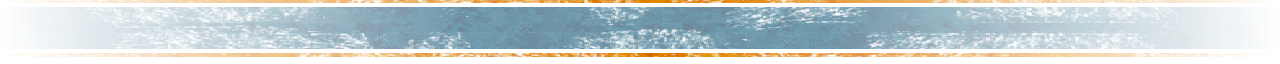
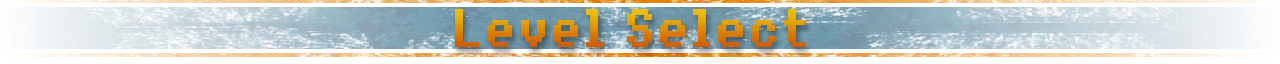
Fixes for headings in menu and leaderboard page
Some changes

Changed region(s): [[0.3438, 0.125, 0.6562, 0.8438]]

diff --git a/game/Developers.java b/game/Developers.java
@@ -3,7 +3,7 @@ import greenfoot.*;
 /**
  * This world will contain names of all developers that created the game
  * 
- * @author Brent Gammon
+ * @author Brent Gammon, Mati Saidzai
  * @version S3 3/4/16
  */
 public class Developers extends ExtendedWorld
@@ -20,13 +20,18 @@ public class Developers extends ExtendedWorld
         layer1 = new GreenfootImage("images/Graphics/MainMenuelements/Menu_BG.png");
         setBackground("images/Graphics/MainMenuelements/Menu_BG.png");
 
-        addObject(new CreditTextDisplay("Developers",60),420,49);
-        addObject(new Home(),65,50);
+        addObject(new DeveloperBanner(),427,40);
+        addObject(new Brent(),420,150);
+        addObject(new Mitch(),420,200 );
+        addObject(new Viktor(),420,250 );
+        addObject(new Sharaz(),420,300 );
+        addObject(new Mati(),420,350);
+        addObject(new Home(),47,115);
         
-        addObject(new CreditTextDisplay("Brent Gammon",50),420,150);
-        addObject(new CreditTextDisplay("Mitchell Rebuck-Watson",50),420,250);
-        addObject(new CreditTextDisplay("Viktor Kovachev",50),420,350);
-        addObject(new CreditTextDisplay("Shahraz Khan",50),420,450);
-        addObject(new CreditTextDisplay("Mati Saidzai",50),420,550);
+        //addObject(new CreditTextDisplay("Brent Gammon",50),420,150);
+        //addObject(new CreditTextDisplay("Mitchell Rebuck-Watson",50),420,250);
+        //addObject(new CreditTextDisplay("Viktor Kovachev",50),420,350);
+        //addObject(new CreditTextDisplay("Sharaz Khan",50),420,450);
+        //addObject(new CreditTextDisplay("Mati Saidzai",50),420,550);
     }
 }

diff --git a/game/MenuSettings.java b/game/MenuSettings.java
@@ -5,7 +5,7 @@ import java.awt.Color;
 /**
  * This world will contain settings for the game, this will be repsented by different objects within the world
  * 
- * @author Brent Gammon
+ * @author Brent Gammon, Mati Saidzai 
  * @version v0.1
  */
 public class MenuSettings extends ExtendedWorld
@@ -26,13 +26,13 @@ public class MenuSettings extends ExtendedWorld
         addObject(new UPControl(),418,331);
         addObject(new LeftControl(),322,403);
         addObject(new RightControl(),511,403);
-        addObject(new Home(),47,105);
+        addObject(new Home(),47,115);
         addObject(new AttackControl(),322,511);
         addObject(new BombControl(),511,511);
-        addObject(new SettingBelowHeading(),415,243);
-        addObject(new SettingBinding(),420,182);
-        addObject(new SettingBelowHeading(),415,243);
-        addObject(new SettingsTitle(),414,97);
-        addObject(new SettingsBanner(),377,33);
+
+        addObject(new SettingBinding(),420,155);
+        addObject(new SettingBelowHeading(),415,210);
+        //addObject(new SettingsTitle(),414,97);
+        addObject(new SettingsBanner(),410,40);
     }
 }

diff --git a/game/LevelSelectMenu.java b/game/LevelSelectMenu.java
@@ -21,9 +21,9 @@ public class LevelSelectMenu extends ExtendedWorld
         super(GAME_HEIGHT,GAME_WIDTH,false); 
       
         layer1 = new GreenfootImage("images/Graphics/MainMenuelements/Menu_BG.png");
-        addObject(new Home(),40,87);
-        addObject(new LevelSelectBanner(),486,33);
-        addObject(new LevelSelectTitle(),412,98);
+        addObject(new Home(),40,115);
+        addObject(new LevelSelectBanner(),427,40);
+        //addObject(new LevelSelectTitle(),412,98);
         
         int view;
         if(levels==null){

diff --git a/game/DeveloperBanner.java b/game/DeveloperBanner.java
@@ -1,0 +1,20 @@
+import greenfoot.*;
+
+/**
+ * Used in the developer screen as title screen.
+ * 
+ * @author Mati Saidzai
+ * @version v0.1
+ */
+public class DeveloperBanner extends MenuItems
+{
+    /**
+     * Contructor for Developer Banner
+     * When invoked will set the image for the instance
+     */
+    public DeveloperBanner(){
+        GreenfootImage start = new GreenfootImage("images/developerbanner.png");
+        setImage(start);
+    }   
+}
+

diff --git a/game/Sharaz.java b/game/Sharaz.java
@@ -1,0 +1,19 @@
+import greenfoot.*;
+
+/**
+ * Name images for developer page.
+ * 
+ * @author Mati Saidzai
+ * @version v0.1
+ */
+public class Sharaz extends MenuItems
+{
+    /**
+     * Contructor for Name,
+     * When invoked will set the image for the instance
+     */
+    public Sharaz(){
+        GreenfootImage start = new GreenfootImage("images/Names/Sharaz.png");
+        setImage(start);
+    }   
+}

diff --git a/game/Viktor.java b/game/Viktor.java
@@ -1,0 +1,19 @@
+import greenfoot.*;
+
+/**
+ * Name images for developer page.
+ * 
+ * @author Mati Saidzai
+ * @version v0.1
+ */
+public class Viktor extends MenuItems
+{
+    /**
+     * Contructor for Name,
+     * When invoked will set the image for the instance
+     */
+    public Viktor(){
+        GreenfootImage start = new GreenfootImage("images/Names/Viktor.png");
+        setImage(start);
+    }   
+}

diff --git a/game/Brent.java b/game/Brent.java
@@ -1,0 +1,19 @@
+import greenfoot.*;
+
+/**
+ * Name images for developer page.
+ * 
+ * @author Mati Saidzai
+ * @version v0.1
+ */
+public class Brent extends MenuItems
+{
+    /**
+     * Contructor for Name,
+     * When invoked will set the image for the instance
+     */
+    public Brent(){
+        GreenfootImage start = new GreenfootImage("images/Names/Brent.png");
+        setImage(start);
+    }   
+}

diff --git a/game/Mitch.java b/game/Mitch.java
@@ -1,0 +1,19 @@
+import greenfoot.*;
+
+/**
+ * Name images for developer page.
+ * 
+ * @author Mati Saidzai
+ * @version v0.1
+ */
+public class Mitch extends MenuItems
+{
+    /**
+     * Contructor for Name,
+     * When invoked will set the image for the instance
+     */
+    public Mitch(){
+        GreenfootImage start = new GreenfootImage("images/Names/Mitch.png");
+        setImage(start);
+    }   
+}

diff --git a/game/Mati.java b/game/Mati.java
@@ -1,0 +1,19 @@
+import greenfoot.*;
+
+/**
+ * Name images for developer page.
+ * 
+ * @author Mati Saidzai
+ * @version v0.1
+ */
+public class Mati extends MenuItems
+{
+    /**
+     * Contructor for Name,
+     * When invoked will set the image for the instance
+     */
+    public Mati(){
+        GreenfootImage start = new GreenfootImage("images/Names/Mati.png");
+        setImage(start);
+    }   
+}
